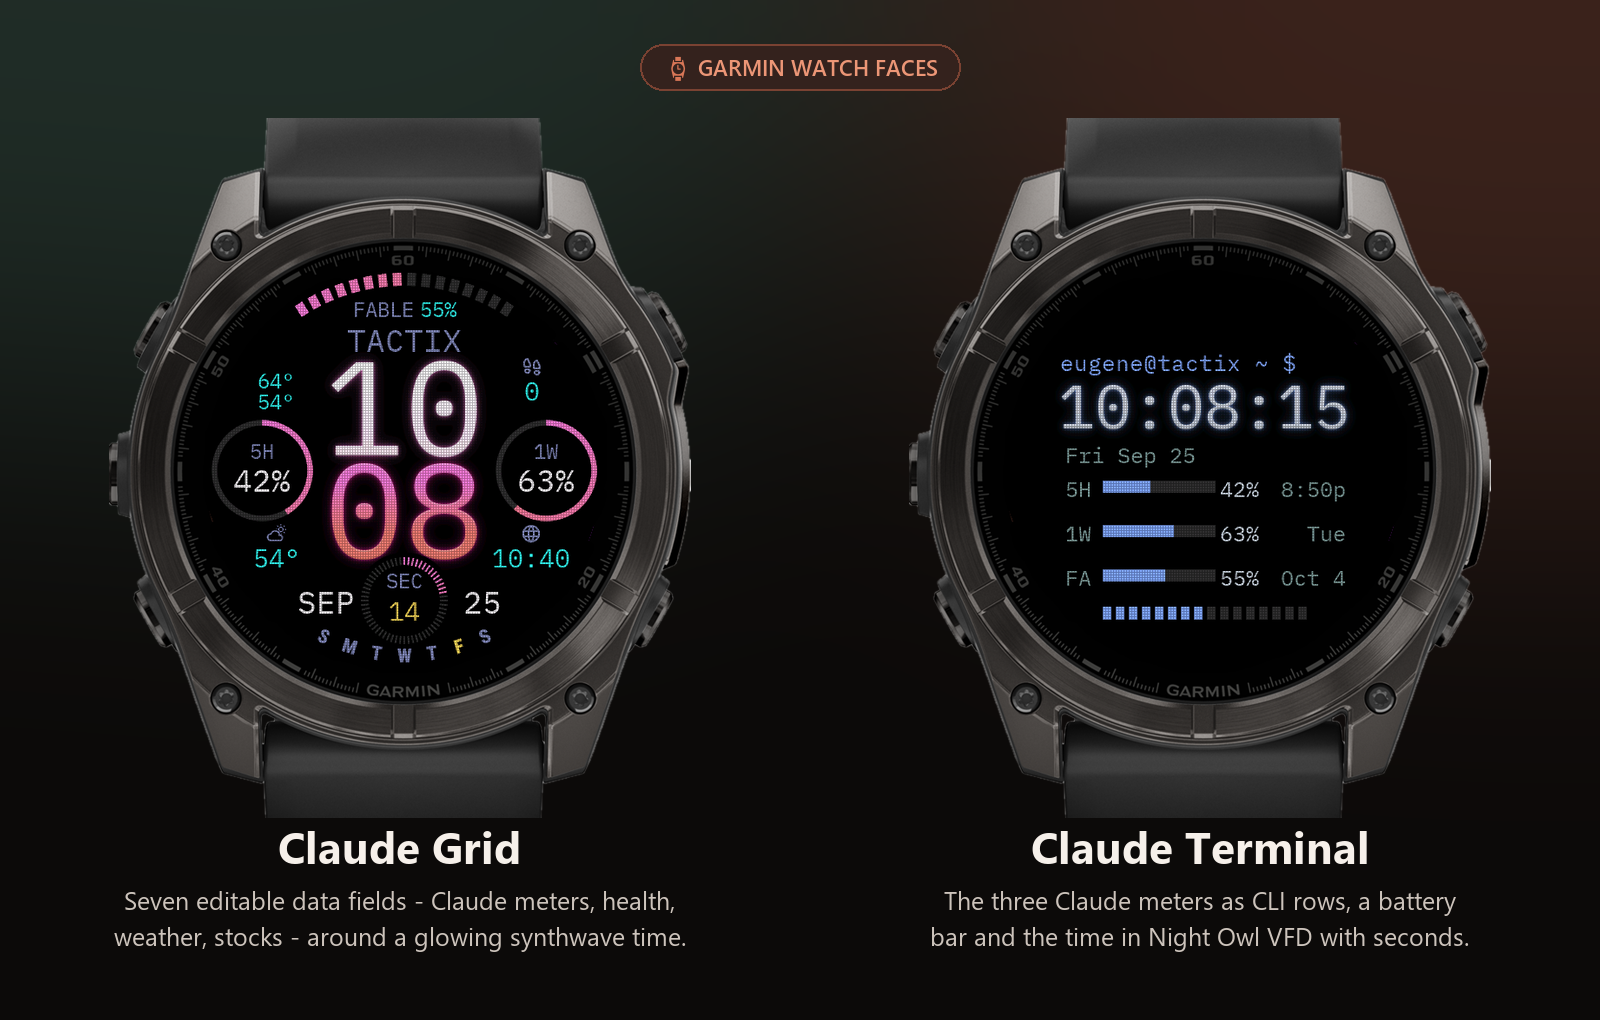
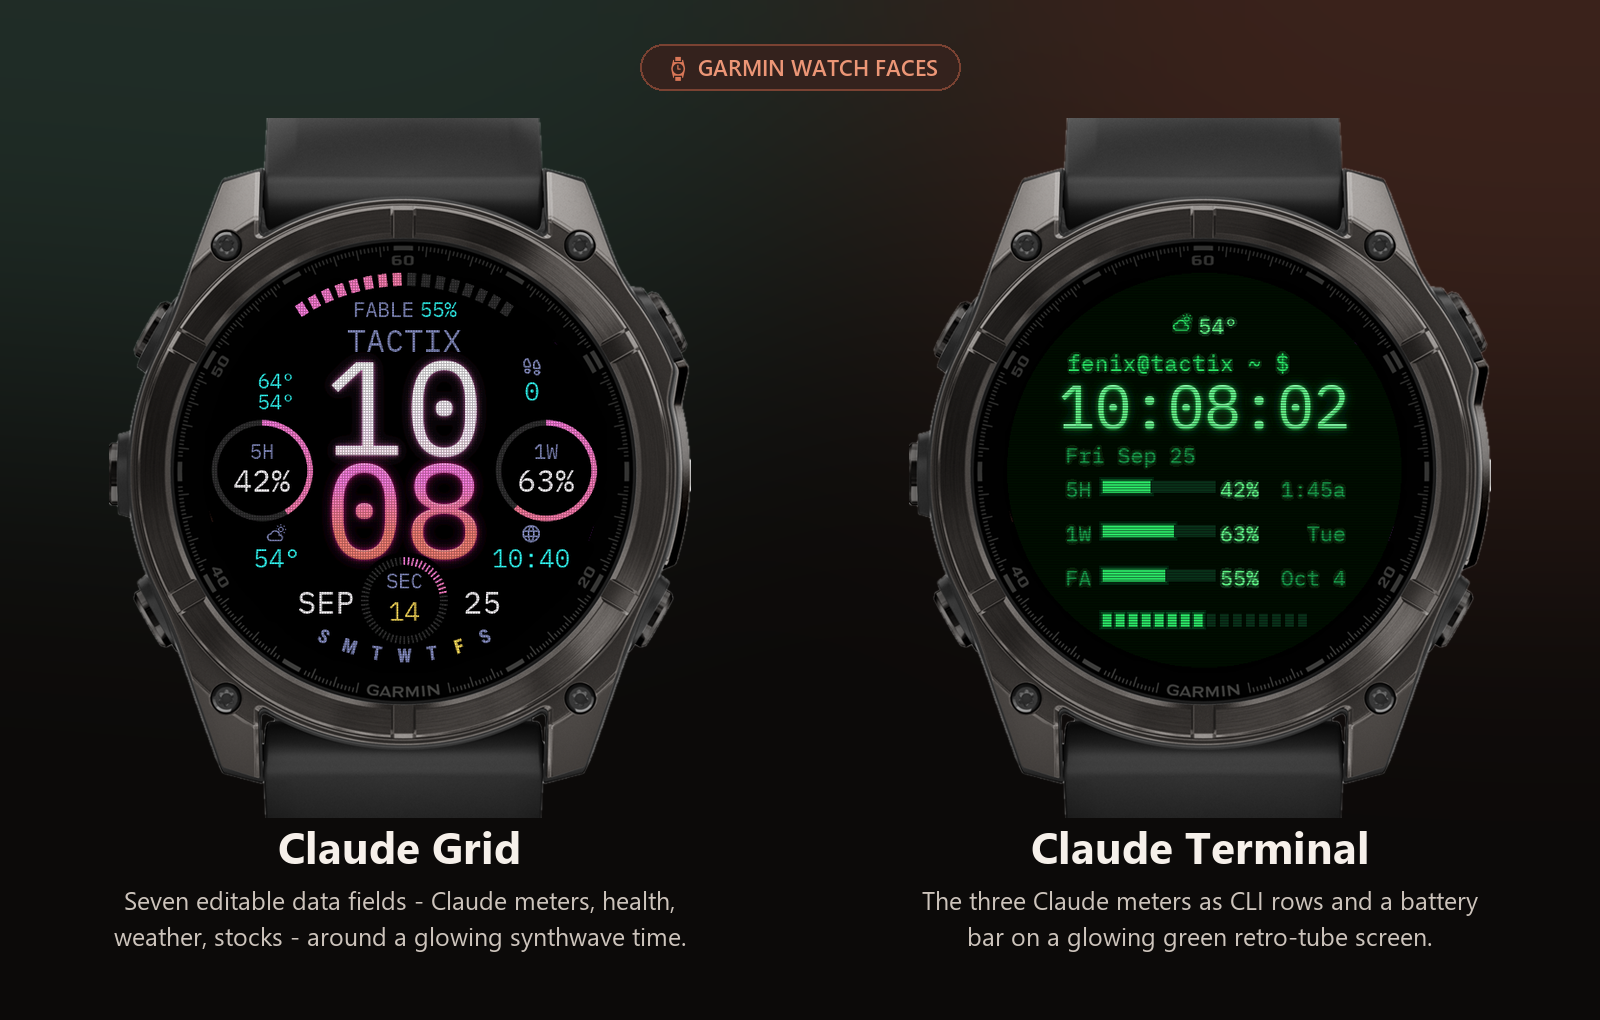
Claude Terminal: Retro tube + scanlines by default; 80%+ bars in bright green
Applies the pasted editor design: Retro tube theme, scanlines and the tube glow become the
face's default look (Night Owl stays available - toggle Retro tube off in the watch
settings menu), and Retro tube's near-cap colour changes from amber to #11ff00, the brightest
pure green, so an 80 %+ meter flares instead of changing hue on a monochrome tube.

- properties.xml defaults Theme=1, Scanlines=true; view + settings-menu fallbacks match.
- Editor defaults = this design (its settings block reproduces the paste; theme reads
  retro-tube since the built-in theme now carries #11ff00).
- READMEs + docs/watchfaces.png (Terminal re-captured in the default look).

A watch that already has saved settings keeps them. Simulator, no settings changed: Retro tube
+ scanlines + glow; always-on black with scanlines, 6.2 % lit.

Changed region(s): [[0.6562, 0.3039, 0.8438, 0.6382], [0.5938, 0.8814, 0.9062, 0.9422]]

diff --git a/watchface-terminal/editor/claude-terminal-editor.html b/watchface-terminal/editor/claude-terminal-editor.html
@@ -116,13 +116,14 @@ const THEMES=[
  ["synthwave","Synthwave",{bg:"#000000",accent:"#ff7edb",val:"#ffffff",dim:"#848bbd",track:"#333333",cap:"#fe4450",glow:"#ff7edb"}],
  ["night-owl","Night Owl",{bg:"#000000",accent:"#82aaff",val:"#d6deeb",dim:"#7f9c9c",track:"#333333",cap:"#ef5350",glow:"#82aaff"}],
  // Green-phosphor CRT (the watch's "Retro tube" theme - keep in step with ClaudeFaceView.applyTheme
- // and build_glow_time.THEMES). Near-black green background; amber for 80%+ (a mono tube has no red).
- ["retro-tube","Retro tube (green phosphor)",{bg:"#020f06",accent:"#2bdc63",val:"#66ff8f",dim:"#1e9a48",track:"#0c3318",cap:"#ffb000",glow:"#2bff6a"}],
+ // and build_glow_time.THEMES). Near-black green background; 80%+ in the brightest green (a mono tube has no red).
+ ["retro-tube","Retro tube (green phosphor)",{bg:"#020f06",accent:"#2bdc63",val:"#66ff8f",dim:"#1e9a48",track:"#0c3318",cap:"#11ff00",glow:"#2bff6a"}],
 ];
 
 function defaults(){return {
-  font:"IBM Plex Mono", showSeconds:true, vfd:true, scanlines:false, tube:false, theme:"night-owl",
-  bg:"#000000", accent:"#82aaff", val:"#d6deeb", dim:"#7f9c9c", track:"#333333", cap:"#ef5350", glow:"#82aaff",
+  // Default = the face default: Retro tube + scanlines + tube glow (the editor design, 2026-09-25).
+  font:"IBM Plex Mono", showSeconds:true, vfd:true, scanlines:true, tube:true, theme:"retro-tube",
+  bg:"#020f06", accent:"#2bdc63", val:"#66ff8f", dim:"#1e9a48", track:"#0c3318", cap:"#11ff00", glow:"#2bff6a",
   el:{
     prompt:{name:"Prompt line", kind:"text", x:0.434, y:0.187, size:26, text:"fenix@tactix ~ $"},
     time:  {name:"Time",        kind:"time", x:0.500, y:0.234, size:70},

diff --git a/watchface-terminal/editor/build_terminal_editor.py b/watchface-terminal/editor/build_terminal_editor.py
@@ -153,13 +153,14 @@ const THEMES=[
  ["synthwave","Synthwave",{bg:"#000000",accent:"#ff7edb",val:"#ffffff",dim:"#848bbd",track:"#333333",cap:"#fe4450",glow:"#ff7edb"}],
  ["night-owl","Night Owl",{bg:"#000000",accent:"#82aaff",val:"#d6deeb",dim:"#7f9c9c",track:"#333333",cap:"#ef5350",glow:"#82aaff"}],
  // Green-phosphor CRT (the watch's "Retro tube" theme - keep in step with ClaudeFaceView.applyTheme
- // and build_glow_time.THEMES). Near-black green background; amber for 80%+ (a mono tube has no red).
- ["retro-tube","Retro tube (green phosphor)",{bg:"#020f06",accent:"#2bdc63",val:"#66ff8f",dim:"#1e9a48",track:"#0c3318",cap:"#ffb000",glow:"#2bff6a"}],
+ // and build_glow_time.THEMES). Near-black green background; 80%+ in the brightest green (a mono tube has no red).
+ ["retro-tube","Retro tube (green phosphor)",{bg:"#020f06",accent:"#2bdc63",val:"#66ff8f",dim:"#1e9a48",track:"#0c3318",cap:"#11ff00",glow:"#2bff6a"}],
 ];
 
 function defaults(){return {
-  font:"IBM Plex Mono", showSeconds:true, vfd:true, scanlines:false, tube:false, theme:"night-owl",
-  bg:"#000000", accent:"#82aaff", val:"#d6deeb", dim:"#7f9c9c", track:"#333333", cap:"#ef5350", glow:"#82aaff",
+  // Default = the face default: Retro tube + scanlines + tube glow (the editor design, 2026-09-25).
+  font:"IBM Plex Mono", showSeconds:true, vfd:true, scanlines:true, tube:true, theme:"retro-tube",
+  bg:"#020f06", accent:"#2bdc63", val:"#66ff8f", dim:"#1e9a48", track:"#0c3318", cap:"#11ff00", glow:"#2bff6a",
   el:{
     prompt:{name:"Prompt line", kind:"text", x:0.434, y:0.187, size:26, text:"fenix@tactix ~ $"},
     time:  {name:"Time",        kind:"time", x:0.500, y:0.234, size:70},

diff --git a/README.md b/README.md
@@ -111,18 +111,18 @@ is why the watch app must be installed (and opened once) for the faces to show C
 ### Claude Terminal
 
 - The three Claude meters as CLI rows (`5H`, `1W`, model) with bars, percentages and absolute
-  reset times, under an `fenix@tactix ~ $` prompt and the time, in IBM Plex Mono on the Night Owl
-  palette.
+  reset times, under a `fenix@tactix ~ $` prompt and the time, in IBM Plex Mono — by default on a
+  glowing green **retro tube** screen with scanlines (Night Owl blue is the alternative).
 - A segmented **battery bar** under the meters — Claude Grid's top battery arc, straightened (turns
   red at 20%).
 - **Weather** at the top, like Rad Lad: the current condition icon (sun / moon by time of day) and
   the temperature in the watch's units.
 - Settings — **on the watch** (hold the face → Settings) and in Garmin Connect for a store
   install: the **prompt text** (typed on the watch with its own keyboard — make the top line say
-  whatever you like), a **Retro tube** theme (green phosphor on a dark-green screen, Pip-Boy
-  style, where *everything* glows like a tube — text, bars, battery, weather; Night Owl when off),
-  **Scanlines** (thin horizontal lines like an old monitor, in place of the VFD mesh) and **Show
-  seconds**. A sideloaded face can only be set on the watch — Garmin Connect edits settings only
+  whatever you like), the **Retro tube** theme (**the default**: green phosphor on a dark-green
+  screen, Pip-Boy style, where *everything* glows like a tube — text, bars, battery, weather;
+  switch it off for Night Owl), **Scanlines** (thin horizontal lines like an old monitor, in place
+  of the VFD mesh; on by default) and **Show seconds**. A sideloaded face can only be set on the watch — Garmin Connect edits settings only
   for faces installed from the Connect IQ Store.
 - VFD style by default (glowing time + full-face mesh).
 - Always-on (low power), like Claude Grid: the time becomes a thin outline **HH:MM** that stays

diff --git a/watchface-terminal/README.md b/watchface-terminal/README.md
@@ -3,17 +3,18 @@
 A terminal/CLI-styled watch face for fenix 8 class watches (incl. tactix 8), modelled on the
 "Agentic Pro" look. Shows a prompt line, the time, the date, and the three Claude usage meters
 (5H / 1W / model) as CLI rows with bars, percentages, and reset times, plus a segmented battery
-bar (the straight counterpart of Claude Grid's battery arc), in IBM Plex Mono on the Night Owl
-palette, with a glowing VFD time. In always-on (low power) the time becomes a 2 px outline HH:MM
+bar (the straight counterpart of Claude Grid's battery arc), in IBM Plex Mono - by default in the
+Retro tube theme with scanlines (Night Owl is the alternative), with a glowing VFD time. In always-on (low power) the time becomes a 2 px outline HH:MM
 (`stm_time_o`, from `tools/build_fonts_terminal.py`), the seconds and grey tracks go and the VFD mesh
 (or scanlines) stays, much as
 on Claude Grid.
 
 A weather line sits at the top (condition icon + temperature, from `Toybox.Weather`; the icons
 are Claude Grid's `cg_icon`, copied as `stm_icon` by `tools/build_fonts_terminal.py`). Garmin
-Connect settings add a **colour theme** - Night Owl or **Retro tube** (green phosphor on a dark
-green background; its own glow digit set, `rt*`, from `tools/build_glow_time.py`) - and
-**Scanlines**, which swaps the VFD mesh for horizontal CRT lines (`scan_tile`). Always-on stays
+Connect settings add a **colour theme** - **Retro tube** by default (green phosphor on a dark
+green background, 80 %+ bars in the brightest green #11ff00; its own glow digit set, `rt*`, from
+`tools/build_glow_time.py`) or Night Owl - and **Scanlines** (on by default), which swaps the VFD
+mesh for horizontal CRT lines (`scan_tile`). Always-on stays
 black in every theme, with the mesh / scanlines still over it.
 
 In Retro tube *everything* glows. CIQ can't blur, so the text, the prompt and the weather icon
